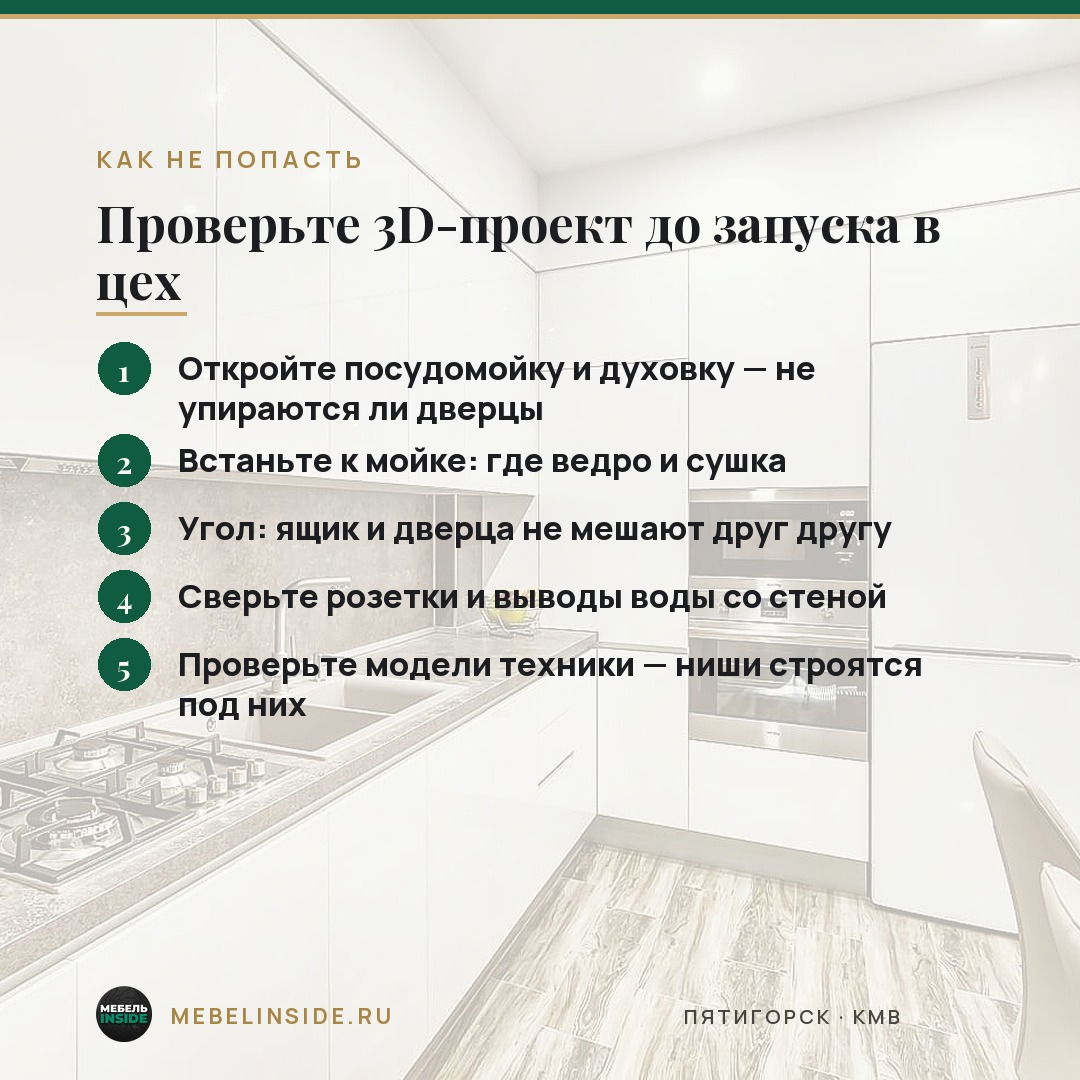
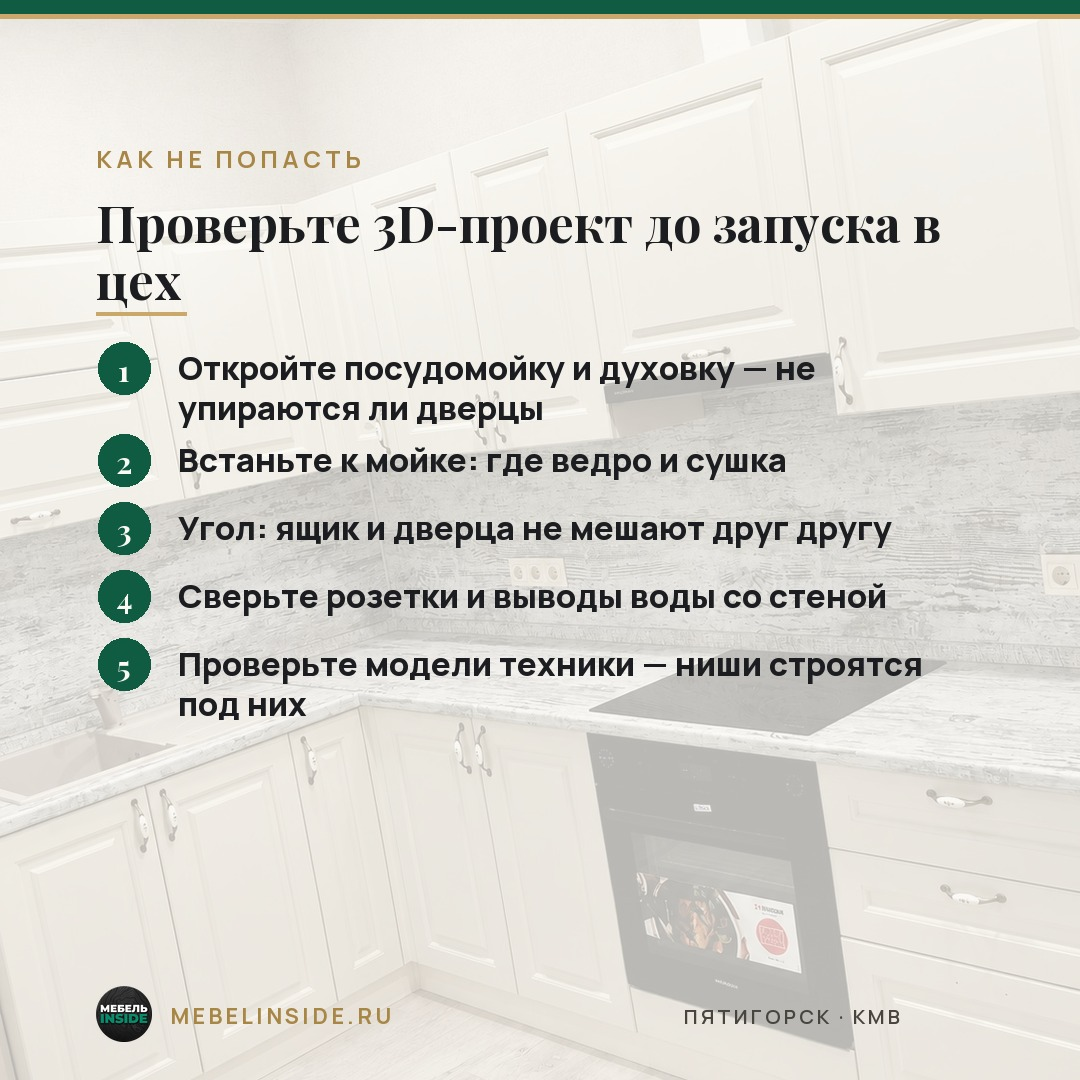
Карточки: фоны по теме, убрано «массив тяжелее», лист согласования; тексты офисной мебели без массива

diff --git a/tools/cards/make_contact_sheets.py b/tools/cards/make_contact_sheets.py
@@ -1,0 +1,42 @@
+# -*- coding: utf-8 -*-
+"""Контактные листы карточек для согласования (6 шт. на лист) + media/cards/SOGLASOVANIE.md.
+Запуск: python make_contact_sheets.py <папка content-bot>"""
+import sys, os, json
+from PIL import Image, ImageDraw, ImageFont
+BOT = sys.argv[1]
+HERE = os.path.dirname(os.path.abspath(__file__)); ROOT = os.path.abspath(os.path.join(HERE, "..", ".."))
+OUT = os.path.join(ROOT, "media", "cards")
+cards = json.load(open(os.path.join(HERE, "cards.json"), encoding="utf-8"))
+BG = json.load(open(os.path.join(HERE, "soglasovanie-bg.json"), encoding="utf-8"))
+F = ImageFont.truetype(os.path.join(BOT, "assets/fonts/Manrope-Variable.ttf"), 19)
+FB = ImageFont.truetype(os.path.join(BOT, "assets/fonts/Manrope-Variable.ttf"), 21)
+try: FB.set_variation_by_axes([700])
+except Exception: pass
+def fit(t, f, w=480):
+    while d_.textlength(t, font=f) > w and len(t) > 4:
+        t = t[:-2].rstrip() + "…" if not t.endswith("…") else t[:-2] + "…"
+    return t
+d_ = ImageDraw.Draw(Image.new("RGB", (10, 10)))
+T = 480; CAP = 84; GAP = 20
+for k in range(0, len(cards), 6):
+    chunk = cards[k:k + 6]
+    sh = Image.new("RGB", (3 * T + 4 * GAP, 2 * (T + CAP) + 3 * GAP), "white")
+    d = ImageDraw.Draw(sh)
+    for i, c in enumerate(chunk):
+        im = Image.open(os.path.join(OUT, c["id"] + ".jpg")).convert("RGB").resize((T, T), Image.LANCZOS)
+        x = GAP + (i % 3) * (T + GAP); y = GAP + (i // 3) * (T + CAP + GAP)
+        sh.paste(im, (x, y))
+        dd, mm = c["id"][8:10], c["id"][5:7]
+        d.text((x, y + T + 6), fit(f"{dd}.{mm}  ·  {c['title']}", FB), font=FB, fill=(28, 29, 32))
+        d.text((x, y + T + 42), fit("фон: " + BG[c["id"]]["short"], F), font=F, fill=(90, 86, 78))
+    rows_used = 1 if len(chunk) <= 3 else 2
+    sh = sh.crop((0, 0, sh.width, rows_used * (T + CAP + GAP) + GAP))
+    sh.save(os.path.join(OUT, f"SOGLASOVANIE-list-{k // 6 + 1}.jpg"), quality=88)
+rows = ["# Лист согласования карточек 19.10–28.11 (на согласовании у Михаила)", "",
+        "Контактные листы: `SOGLASOVANIE-list-1.jpg` … `-5.jpg` (по 6 карточек). Статус всех — **на согласовании**; в бот и Metricool новые карточки не заливались.",
+        "Пометка **новый фон** — фон заменён в этой правке; «[?]» — не уверены, что фон подходит.", "",
+        "| № | Дата | Тема | Что на фоне | Статус |", "|---|---|---|---|---|"]
+for n, c in enumerate(cards, 1):
+    b = BG[c["id"]]
+    rows.append(f"| {n} | {c['id'][8:10]}.{c['id'][5:7]} | {c['title']} | {b['long']} | на согласовании |")
+open(os.path.join(OUT, "SOGLASOVANIE.md"), "w", encoding="utf-8").write("\n".join(rows) + "\n")

diff --git a/media/cards/SOGLASOVANIE.md b/media/cards/SOGLASOVANIE.md
@@ -1,0 +1,34 @@
+# Лист согласования карточек 19.10–28.11 (на согласовании у Михаила)
+
+Контактные листы: `SOGLASOVANIE-list-1.jpg` … `-5.jpg` (по 6 карточек). Статус всех — **на согласовании**; в бот и Metricool новые карточки не заливались.
+Пометка **новый фон** — фон заменён в этой правке; «[?]» — не уверены, что фон подходит.
+
+| № | Дата | Тема | Что на фоне | Статус |
+|---|---|---|---|---|
+| 1 | 19.10 | Новостройка: что решить до чистовой | светлая кухня с тёмным камнем (старый фон, без изменений) | на согласовании |
+| 2 | 20.10 | Замена материала — до распила | изогнутая белая стойка ресепшн — офис/ресепшн (без изменений) | на согласовании |
+| 3 | 21.10 | HPL для кухни, где готовят каждый день | тёмная кухня с техникой и столом (без изменений) | на согласовании |
+| 4 | 22.10 | «Бесплатный замер»: порядок шагов | серая кухня с духовкой (без изменений) | на согласовании |
+| 5 | 26.10 | Столешница из акрилового камня | варочная панель на каменной столешнице (без изменений) | на согласовании |
+| 6 | 27.10 | 4 вопроса мебельщику до договора | белая классическая кухня (без изменений) | на согласовании |
+| 7 | 29.10 | Эмаль: за что платите и что знать заранее | белые фасады в эмали, классика (без изменений) | на согласовании |
+| 8 | 30.10 | Кухня из массива за 45 дней? | НОВЫЙ ФОН: без фото — прежний фон не был массивом [?] | на согласовании |
+| 9 | 31.10 | Ручки, профиль или push-to-open | интерьер с тёмной дверью, кухни в кадре почти нет [?] предлагаем заменить | на согласовании |
+| 10 | 02.11 | Проверьте 3D-проект до запуска в цех | НОВЫЙ ФОН: белая классическая кухня с варочной панелью (Диск: Кухни/Неоклассика) | на согласовании |
+| 11 | 03.11 | Плёнка ПВХ: где ставим, а где нет | кухня с серыми фасадами и деревом (без изменений) | на согласовании |
+| 12 | 08.11 | Cleaf: фактура, которую чувствует рука | кухня с деревянными фасадами (без изменений) | на согласовании |
+| 13 | 09.11 | Что будет со сколом через три года | светлая кухня с мраморным фартуком и люстрой (без изменений) | на согласовании |
+| 14 | 11.11 | Кухня к Новому году: считаем честно | серо-белая кухня с духовкой (без изменений) | на согласовании |
+| 15 | 13.11 | Шкаф-купе: ширина двери под то, что за ней | пустой встроенный шкаф (без изменений) | на согласовании |
+| 16 | 15.11 | Шпон — настоящее дерево, но не массив | деревянные панели и шкаф; [?] не подтверждено, что это шпон (без изменений) | на согласовании |
+| 17 | 16.11 | Массив зимой: что делает дерево | НОВЫЙ ФОН: без фото — прежняя кухня была не из массива | на согласовании |
+| 18 | 17.11 | ЛДСП: уязвимое место — кромка | НОВЫЙ ФОН: без фото — прежнее фото пересвечено | на согласовании |
+| 19 | 18.11 | Что лежит в гарантийном паспорте | серая кухня с техникой (без изменений) | на согласовании |
+| 20 | 19.11 | Дверца перекосилась — что сделать | белые шкафы с деревянными вставками (без изменений) | на согласовании |
+| 21 | 20.11 | Как передать нам проект | ресепшн с белым камнем — офис (без изменений) | на согласовании |
+| 22 | 22.11 | HPL: что выдерживает и чего не прощает | тёмная кухня с мраморным камнем (без изменений) | на согласовании |
+| 23 | 23.11 | Срок кухни зависит от фасада | кухня с деревянными фасадами, ваза (без изменений) | на согласовании |
+| 24 | 25.11 | ЛДСП или МДФ: что лучше для кухни | НОВЫЙ ФОН: серая кухня с гладкими фасадами, реальное фото (Диск: Кухни/Современные, IMG_20250530_101922); прежний был пересвечен | на согласовании |
+| 25 | 26.11 | Образцы, которые стоит потрогать до заказа | НОВЫЙ ФОН: светлая кухня с каменным фартуком (Диск: Кухни/Неоклассика), прежний был пересвечен | на согласовании |
+| 26 | 27.11 | Как подбираем фурнитуру под нагрузку | НОВЫЙ ФОН: белая угловая кухня с ящиками (Диск: Кухни/Неоклассика); прежний — не массив | на согласовании |
+| 27 | 28.11 | Массив или шпон: как выбрать дерево | НОВЫЙ ФОН: без фото — подтверждённого фото массива нет [?] | на согласовании |

diff --git a/JOURNAL-mebelinside.md b/JOURNAL-mebelinside.md
@@ -2,6 +2,7 @@
 
 Одна строка на рабочую сессию. Новые записи сверху.
 Формат: `ГГГГ-ММ-ДД — тема — итог одной фразой — [отчёт](PROGRESS-....md)`
+2026-10-23 — SMM/карточки: убрано «массив тяжелее МДФ/ЛДСП» (plan 27.11 + 26.11 «вес массива», Metricool 4 поста, repo-тексты; PR content-bot#32 не слит); 8 карточек пересобраны (фон: 4 реальных фото с Диска, 4 нейтральных), лист согласования media/cards/SOGLASOVANIE.md + list-1…5.jpg — ждёт Михаила
 2026-10-22 — Мета-описания 40 карточек кухонь уникализированы (шаблон «{H1}: кухня на заказ…», бэкап BACKUP-kuhni-meta-2026-10-22.md), 13 брендов — description; проверено на живом сайте (1 H1, canonical, описание отдаётся); осталось: 13 брендов в других характеристиках, дивана/«кузни» (2+2), title пары /mebel-dlya-doma-ru/ и /mebel-dlya-doma.html, 2 H1 на 6 страницах
 2026-10-22 — SMM/CTA: правило «калькулятор максимум в 1 из 5 постов, остальное — звонок/номер/WhatsApp/шоурум/вопрос/без призыва» (KONTENT-ZAVOD.md); план 22.10–28.11 переписан (было 38 из 38 с калькулятором, стало 6), PR content-bot#31 ждёт слияния; в Metricool обновлены 6 постов на ближайшие 2 недели (4 FB + 2 рилса)
 2026-10-22 — Сайт/бренды: 12 логотипов (SMEG, Küppersbusch, Miele, Gaggenau, Neff, Bosch, Liebherr, Franke, Blanco, Elica, Faber, Falmec) с официальных сайтов → media/brands/*.png (400 px), источники — media/brands/ISTOCHNIKI.md (Blanco: на сайте только белый — на синей плашке); тексты, title, meta — zalivka/29-brendy-premium-opisaniya.md, на сайт не залито

diff --git a/ROADMAP.md b/ROADMAP.md
@@ -37,6 +37,7 @@
 | R10 | Раз в месяц: сколько заявок дали рилс (UTM в Метрике + комментарии «ПРОЕКТ»); ролик без заявок 2 месяца — менять хук | ⏭ | ⚪ | доступ к Метрике | `CTA-reels.md` |
 | R11 | Бот: текст по фото сам (Claude vision) и черновик на «Ок/правка» | 💤 | 🟡 | ключ API Anthropic в секреты бота | `PLAN-etap2-etap3-…md` |
 | R67 | Разные призывы (CTA) в постах: калькулятор ≤1 из 5, звонок/номер/WhatsApp/шоурум/вопрос/без призыва | 🔥 | 🟡 22.10: правило в KONTENT-ZAVOD.md, Metricool на 2 недели обновлён, PR content-bot#31 (план до 28.11) ждёт слияния Михаилом | SMM | остальной Metricool (после 05.11) и черновики w2 — после подтверждения |
+| R68 | Карточки и посты: убрать неверное про массив/вес, фоны карточек по теме, согласовать каждое фото с Михаилом | 🔥 | 🟡 23.10: тексты исправлены (PR content-bot#32, Metricool 26–27.11), 8 карточек пересобраны, лист — `media/cards/SOGLASOVANIE.md`; новые карточки в бот/Metricool НЕ залиты | просмотреть лист, одобрить/заменить фото | `media/cards/SOGLASOVANIE.md` |
 | R12 | Instagram через API Metricool (сейчас — руками через черновики) | 💤 | 🟡 | решить про тариф Advanced | `PLAN-etap2-etap3-…md` |
 | R13 | Автоответ в директ на слово ПРОЕКТ (ManyChat и т. п., платно) | 💤 | 🟡 | решение | `CTA-reels.md` |
 | R14 | Автопубликация без подтверждения — включать, если черновики 2 недели подряд без правок | 💤 | 🟡 | да/нет | `PLAN-etap2-etap3-…md` |

diff --git a/zalivka/17b-b2b-ofisy.md b/zalivka/17b-b2b-ofisy.md
@@ -73,7 +73,7 @@ HTML вставлять в режиме «Исходный код» редакт
 
 <h2>Материалы для кабинета и офиса</h2>
 <ul>
-<li><a href="https://mebelinside.ru/fasady-shpon.html">Натуральный шпон</a> — фактура настоящего дерева для кабинета руководителя и переговорной; основа из МДФ меньше реагирует на влажность, чем массив.</li>
+<li><a href="https://mebelinside.ru/fasady-shpon.html">Натуральный шпон</a> — фактура настоящего дерева для кабинета руководителя и переговорной.</li>
 <li><a href="https://mebelinside.ru/fasady-mdf-emal.html">МДФ в эмали</a> — любой цвет, в том числе фирменный, мат или глянец, фрезеровка.</li>
 <li><a href="https://mebelinside.ru/ldsp-dlya-mebeli.html">ЛДСП с кромкой ПВХ</a> — для рабочих мест, архивных шкафов и подсобных помещений: много декоров под дерево, камень, бетон.</li>
 <li><a href="https://mebelinside.ru/fasady-plastik.html">Пластик HPL</a> — для столешниц и поверхностей, которые постоянно трут: стойкий к истиранию.</li>

diff --git a/B2B-teksty.md b/B2B-teksty.md
@@ -242,7 +242,7 @@ JSON-LD (в конец описания страницы):
 
 <h2>Материалы для кабинета и офиса</h2>
 <ul>
-<li><a href="https://mebelinside.ru/fasady-shpon.html">Натуральный шпон</a> — фактура настоящего дерева для кабинета руководителя и переговорной; основа из МДФ меньше реагирует на влажность, чем массив.</li>
+<li><a href="https://mebelinside.ru/fasady-shpon.html">Натуральный шпон</a> — фактура настоящего дерева для кабинета руководителя и переговорной.</li>
 <li><a href="https://mebelinside.ru/fasady-mdf-emal.html">МДФ в эмали</a> — любой цвет, в том числе фирменный, мат или глянец, фрезеровка.</li>
 <li><a href="https://mebelinside.ru/ldsp-dlya-mebeli.html">ЛДСП с кромкой ПВХ</a> — для рабочих мест, архивных шкафов и подсобных помещений: много декоров под дерево, камень, бетон.</li>
 <li><a href="https://mebelinside.ru/fasady-plastik.html">Пластик HPL</a> — для столешниц и поверхностей, которые постоянно трут: стойкий к истиранию.</li>

diff --git a/zalivka/14i-fasady-massiv.md b/zalivka/14i-fasady-massiv.md
@@ -41,7 +41,6 @@ HTML вставлять в режиме «Исходный код» редакт
 <ul>
 <li>Самый дорогой материал для фасадов.</li>
 <li>Дерево «дышит»: при сильных перепадах влажности может немного менять размер, у филёнки сезонно появляется тонкая полоска нетонированного края.</li>
-<li>Тяжелее других фасадов — нужна надёжная фурнитура с запасом по нагрузке.</li>
 <li>Рисунок и оттенок у каждой детали свои — это особенность дерева, а не брак.</li>
 <li>В строгом минимализме массив уместен реже: его сила — в рельефе и фактуре.</li>
 </ul>

diff --git a/MATERIALY-2-stranitsy-teksty.md b/MATERIALY-2-stranitsy-teksty.md
@@ -428,7 +428,6 @@ JSON-LD (в конец описания страницы):
 <ul>
 <li>Самый дорогой материал для фасадов.</li>
 <li>Дерево «дышит»: при сильных перепадах влажности может немного менять размер, у филёнки сезонно появляется тонкая полоска нетонированного края.</li>
-<li>Тяжелее других фасадов — нужна надёжная фурнитура с запасом по нагрузке.</li>
 <li>Рисунок и оттенок у каждой детали свои — это особенность дерева, а не брак.</li>
 <li>В строгом минимализме массив уместен реже: его сила — в рельефе и фактуре.</li>
 </ul>
